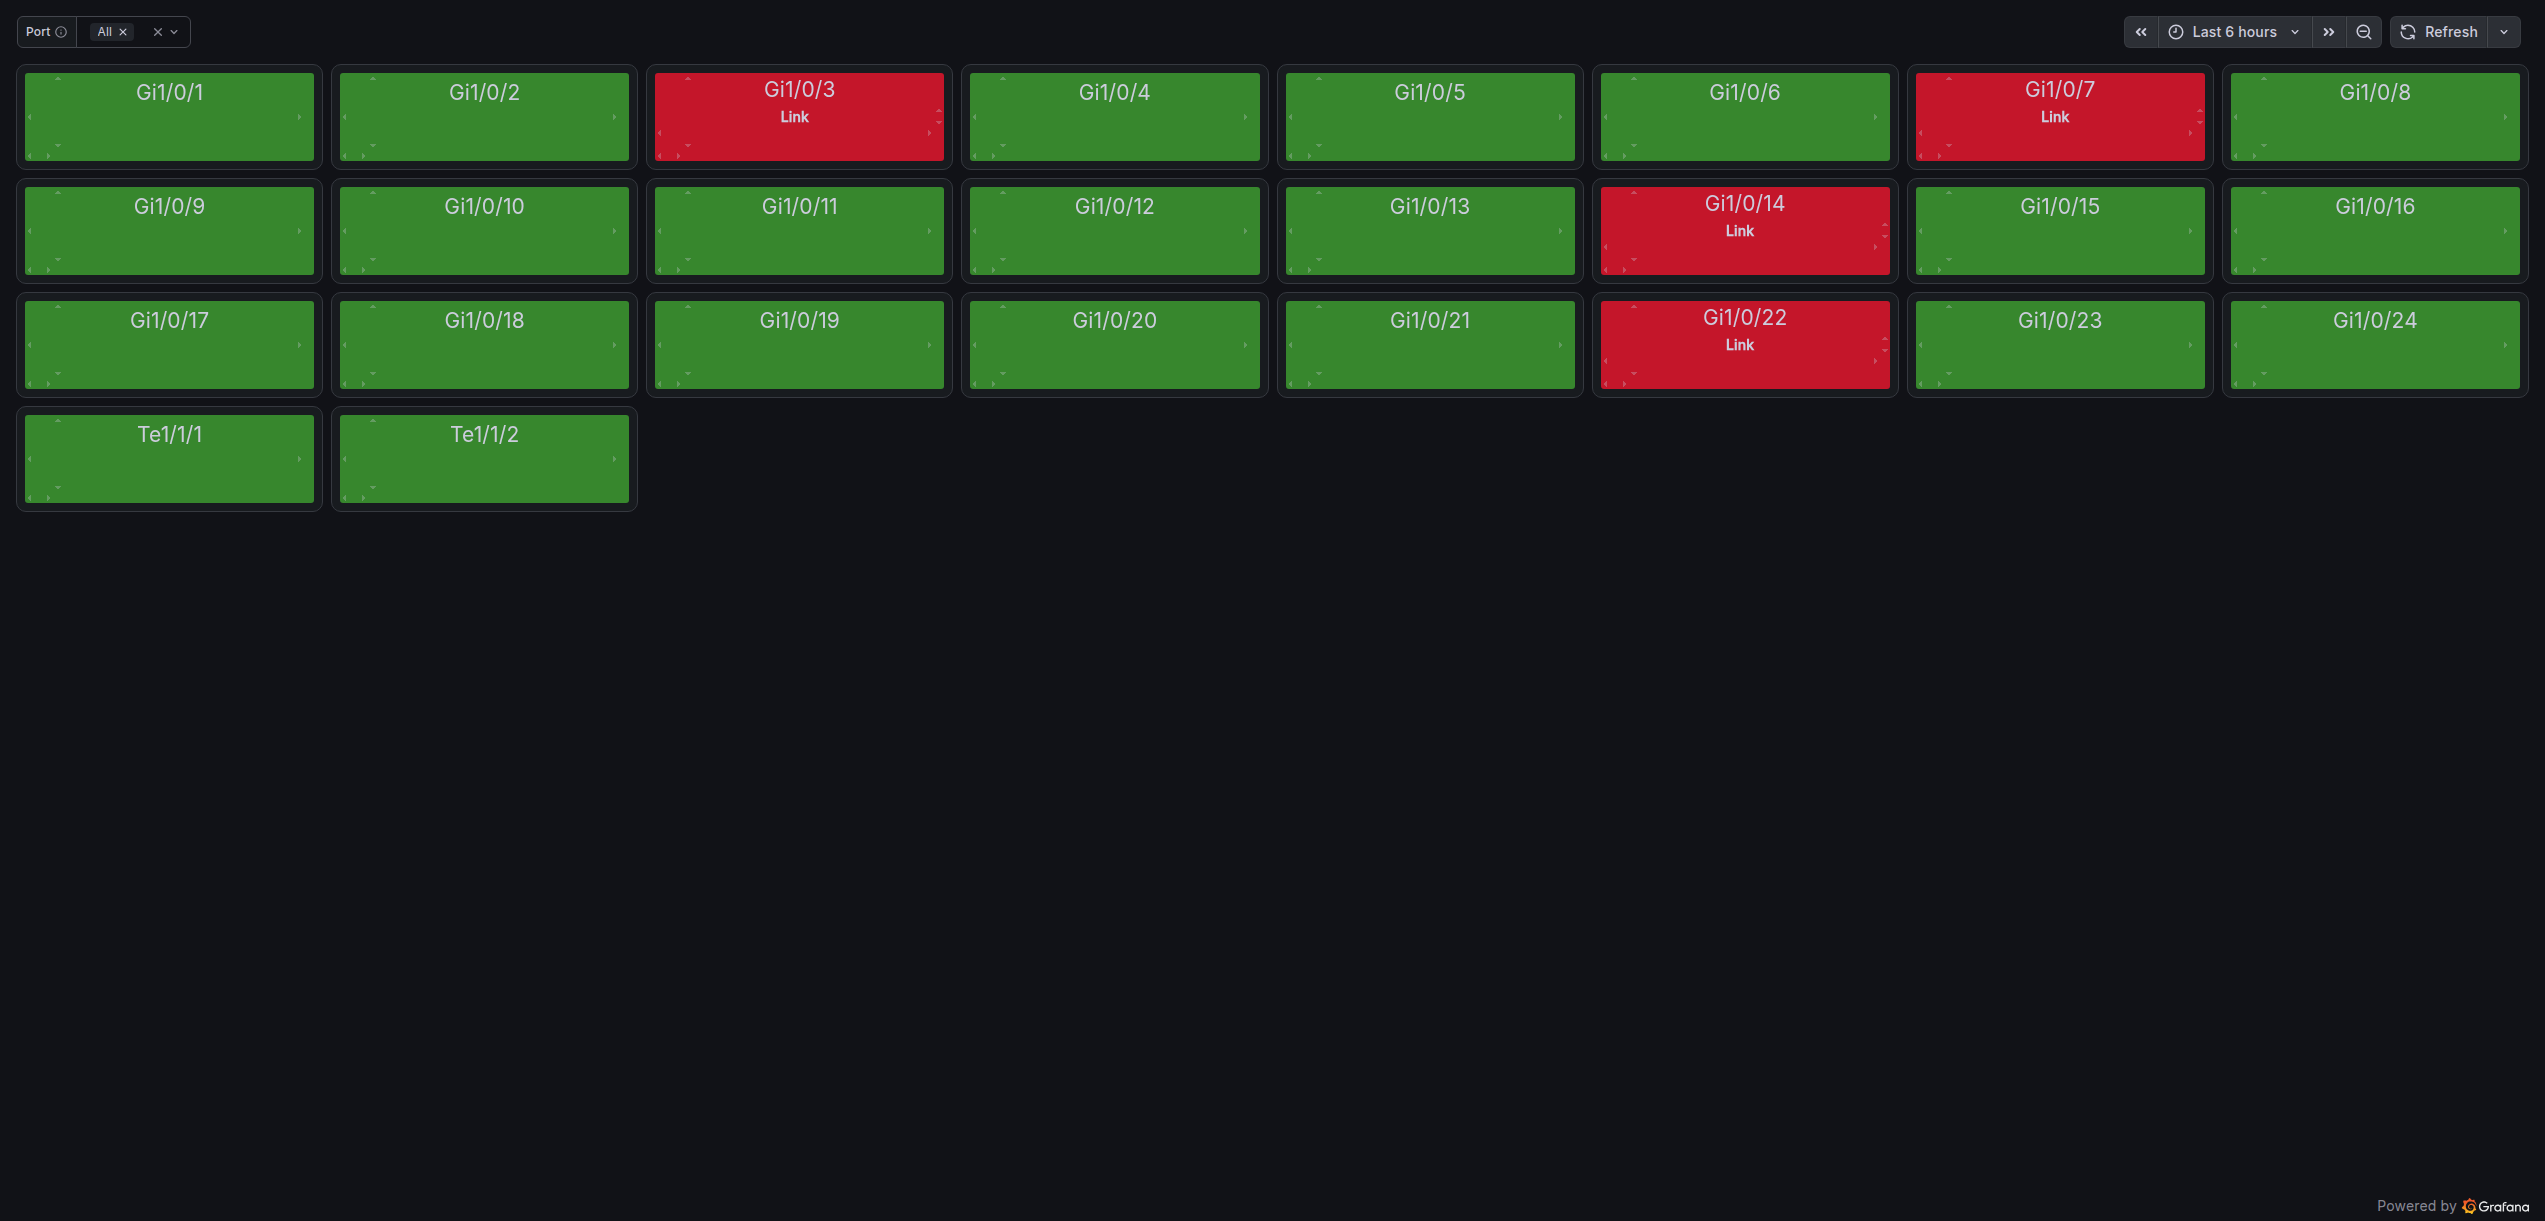
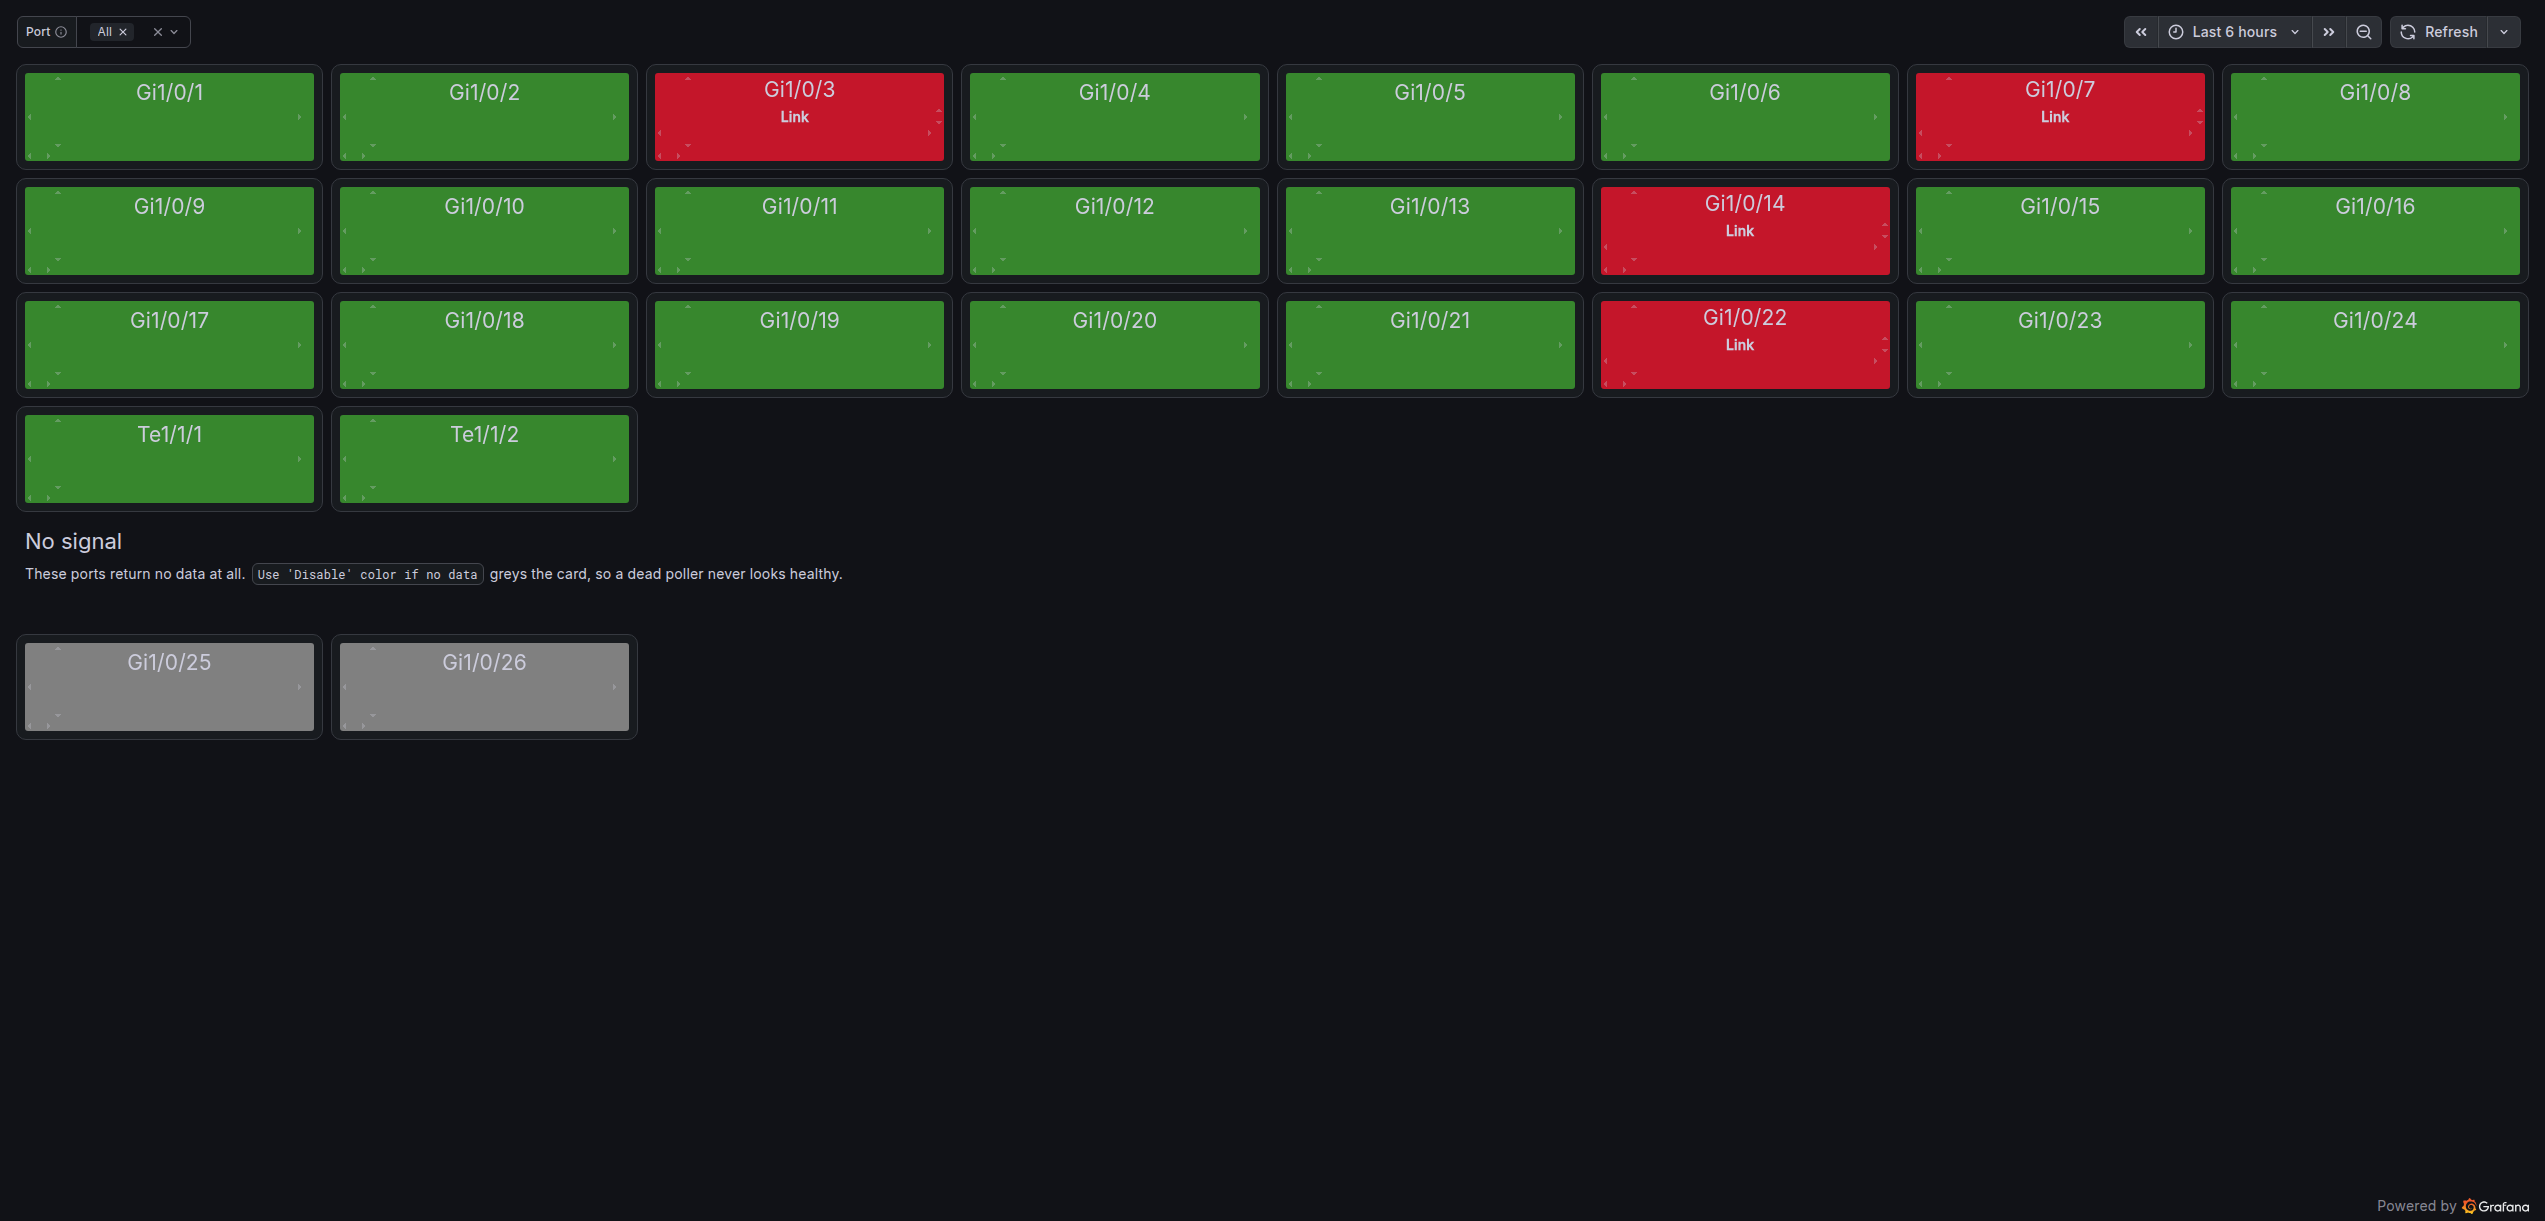
test: grey out switch ports that report nothing
Bring back the third state on the switch demo, but with a better meaning
than the admin-disabled ports it replaces: a port whose poller is dead
returns no series at all, and isGrayOnNoData turns the card grey, so a
dead poller never reads as healthy.

It cannot come from the repeat, because a Grafana custom variable cannot
hold an empty value (it swallows the label:value split), so the two
unreachable ports are their own panels on TestData's no_data_points
scenario.

Claude-Session: https://claude.ai/code/session_01CDfNEaGrEgpuxMVqBr81GH

Changed region(s): [[0.0, 0.4357, 0.3415, 0.6224]]

diff --git a/README.md b/README.md
@@ -4,9 +4,9 @@ One panel that shows the health of many components at once. You give it a set of
 
 ![A dashboard of status cards, most of them green](https://github.com/grafana/Grafana_Status_panel/blob/main/src/img/environment_snapshot.png?raw=true)
 
-The same panel makes a good switch faceplate, green for up and red for down. This one is a single panel repeated over a template variable, so adding a port is a one-line change:
+The same panel makes a good switch faceplate: green for up, red for down, and grey for a port that has stopped reporting altogether. This one is a single panel repeated over a template variable, so adding a port is a one-line change:
 
-![A grid of switch ports, most green with a few red for the down links](https://github.com/grafana/Grafana_Status_panel/blob/main/src/img/switch.png?raw=true)
+![A grid of switch ports, most green, a few red for down links, two grey with no signal](https://github.com/grafana/Grafana_Status_panel/blob/main/src/img/switch.png?raw=true)
 
 ## Why you might want it
 
